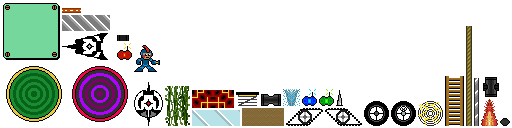
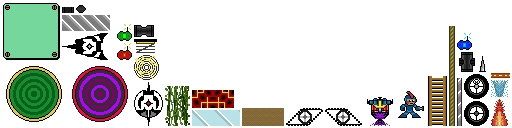
updated boss class to load from json and render

diff --git a/core/src/com/udacity/gamedev/gigagal/entities/Boss.java b/core/src/com/udacity/gamedev/gigagal/entities/Boss.java
@@ -2,7 +2,6 @@ package com.udacity.gamedev.gigagal.entities;
 
 import com.badlogic.gdx.graphics.g2d.SpriteBatch;
 import com.badlogic.gdx.graphics.g2d.TextureRegion;
-import com.badlogic.gdx.math.MathUtils;
 import com.badlogic.gdx.math.Rectangle;
 import com.badlogic.gdx.math.Vector2;
 import com.badlogic.gdx.math.Vector3;
@@ -20,7 +19,7 @@ import java.util.List;
 import java.util.ListIterator;
 import java.util.Random;
 
-public class Boss implements Humanoid {
+public class Boss implements Humanoid, Hazard  {
     
     private Level level;
     private Vector2 position;
@@ -86,7 +85,7 @@ public class Boss implements Humanoid {
     
     private GigaGal gigaGal;
 
-    public Boss(Level level, Vector2 spawnPosition, Enums.WeaponType type) {
+    public Boss(Level level, Vector2 spawnPosition) {
         this.level = level;
         this.spawnPosition = spawnPosition;
         position = new Vector2(spawnPosition);
@@ -94,10 +93,63 @@ public class Boss implements Humanoid {
         previousFramePosition = new Vector2();
         chaseCamPosition = new Vector3();
         weaponList = new ArrayList<Enums.WeaponType>();
+        init();
+    }
+
+    public void init() {
+        ammo = Constants.INITIAL_AMMO;
+        health = Constants.INITIAL_HEALTH;
+        lives = Constants.INITIAL_LIVES;
+        weaponList.add(Enums.WeaponType.NATIVE);
+        weaponToggler = weaponList.listIterator();
+        weapon = weaponToggler.next();
+        respawn();
+    }
+
+    public void respawn() {
+        height = Constants.GIGAGAL_HEIGHT;
+        eyeHeight = Constants.GIGAGAL_EYE_HEIGHT;
+        stanceWidth = Constants.GIGAGAL_STANCE_WIDTH;
+        headRadius = Constants.GIGAGAL_HEAD_RADIUS;
+        position.set(spawnPosition);
+        chaseCamPosition.set(position, 0);
+        velocity.setZero();
+        directionX = Enums.Direction.RIGHT;
+        action = Enums.Action.FALLING;
+        groundState = Enums.GroundState.AIRBORNE;
+        touchedGround = null;
+        paused = false;
+        canClimb = false;
+        canLook = false;
+        canStride = false;
+        canJump = false;
+        canDash = false;
+        canHover = false;
+        canCling = false;
+        canShoot = true;
+        turboDuration = 0;
+        ammoIntensity = Enums.AmmoIntensity.SHOT;
+        onRideable = false;
+        onSkateable = false;
+        onUnbearable = false;
+        onClimbable = false;
+        onSinkable = false;
+        onBounceable = false;
+        chargeStartTime = 0;
+        strideStartTime = 0;
+        climbStartTime = 0;
+        jumpStartTime = 0;
+        dashStartTime = 0;
+        pauseTimeSeconds = 0;
+        turboDuration = 0;
+        killPlane = -10000;
+        recoveryStartTime = TimeUtils.nanoTime();
+        health = Constants.MAX_HEALTH;
+        turbo = Constants.MAX_TURBO;
+        startTurbo = turbo;
     }
 
     public void update(float delta) {
-        
         gigaGal = level.getGigaGal();
         
         // positioning
@@ -112,7 +164,7 @@ public class Boss implements Humanoid {
         // abilities
         if (groundState == Enums.GroundState.PLANTED) {
             velocity.y = 0;
-            if (action == Enums.Action.STANDING) {
+            /*if (action == Enums.Action.STANDING) {
                 stand();
                 enableStride();
                 enableDash();
@@ -131,10 +183,10 @@ public class Boss implements Humanoid {
                 enableDash();
                 enableJump();
                 enableShoot(weapon);
-            }
+            }*/
         } else if (groundState == Enums.GroundState.AIRBORNE) {
             velocity.y -= Constants.GRAVITY;
-            if (action == Enums.Action.FALLING) {
+            /*if (action == Enums.Action.FALLING) {
                 fall();
                 enableClimb();
                 enableHover();
@@ -156,8 +208,10 @@ public class Boss implements Humanoid {
             } else if (action == Enums.Action.RECOILING) {
                 enableCling();
                 enableShoot(weapon);
-            }
+            }*/
         }
+
+        rush();
     }
     
     private void rush() {
@@ -760,7 +814,7 @@ public class Boss implements Humanoid {
         float offset = 0;
         if (lookStartTime == 0) {
             lookStartTime = TimeUtils.nanoTime();
-            chaseCamPosition.set(position, 0);
+//            chaseCamPosition.set(position, 0);
         } else if (action == Enums.Action.STANDING || action == Enums.Action.CLIMBING) {
 //            setChaseCamPosition(offset);
         }
@@ -1082,7 +1136,7 @@ public class Boss implements Humanoid {
     public final float getHeight() { return height; }
     public final float getLeft() { return position.x - getHalfWidth(); }
     public final float getRight() { return position.x + getHalfWidth(); }
-    public final float getTop() { return eyeHeight + headRadius; }
+    public final float getTop() { return position.y + headRadius; }
     public final float getBottom() { return position.y - eyeHeight; }
     public final float getTurbo() { return turbo; }
     public final int getHealth() { return health; }
@@ -1091,8 +1145,12 @@ public class Boss implements Humanoid {
     public final boolean getClingStatus() { return canCling; }
     public final boolean getDashStatus() { return canDash; }
     public final boolean getClimbStatus() { return canClimb; }
+    public final Enums.GroundState getGroundState() { return groundState; }
     public final Enums.AmmoIntensity getAmmoIntensity() { return ammoIntensity; }
     public final Enums.WeaponType getWeapon() { return weapon; }
+    public final int getDamage() { return Constants.AMMO_STANDARD_DAMAGE; }
+    public final Vector2 getKnockback() { return Constants.ZOOMBA_KNOCKBACK; }
+    public final Enums.WeaponType getType() { return weapon; }
 
     public void setDirectionX(Enums.Direction direction) { this.directionX = direction; }
     public void setDirectionY(Enums.Direction direction) { this.directionY = direction; }

diff --git a/core/src/com/udacity/gamedev/gigagal/app/Level.java b/core/src/com/udacity/gamedev/gigagal/app/Level.java
@@ -10,6 +10,7 @@ import com.badlogic.gdx.utils.viewport.ExtendViewport;
 import com.badlogic.gdx.utils.viewport.Viewport;
 import com.udacity.gamedev.gigagal.entities.Ammo;
 import com.udacity.gamedev.gigagal.entities.AmmoPowerup;
+import com.udacity.gamedev.gigagal.entities.Boss;
 import com.udacity.gamedev.gigagal.entities.Box;
 import com.udacity.gamedev.gigagal.entities.Cannon;
 import com.udacity.gamedev.gigagal.entities.DestructibleHazard;
@@ -57,10 +58,13 @@ public class Level {
     private Enums.WeaponType levelWeapon;
     private int difficulty;
 
+    private Boss boss;
+
     // default ctor
     public Level() {
         viewport = new ExtendViewport(Constants.WORLD_SIZE, Constants.WORLD_SIZE);
         gigaGal = new GigaGal(this, new Vector2(50, 50));
+        boss = new Boss(this, new Vector2(300, 300));
         levelScore = 0;
         levelTime = new Timer();
         levelTime.start();
@@ -97,6 +101,7 @@ public class Level {
         if (!gameOver && !victory) {
 
             gigaGal.update(delta);
+            boss.update(delta);
 
             levelWeapon = Enums.WeaponType.NATIVE;
             for (Enums.WeaponType weapon : Arrays.asList(Enums.WeaponType.values())) {
@@ -216,6 +221,7 @@ public class Level {
             destructible.render(batch);
         }
         gigaGal.render(batch);
+        boss.render(batch);
 
         for (Ammo chargeAmmo : ammoList) {
             chargeAmmo.render(batch);
@@ -271,7 +277,7 @@ public class Level {
     public final Array<Box> getBoxes() { return boxes; }
     public final Array<IndestructibleHazard> getIndestructibles() { return indestructibles; }
     public final DelayedRemovalArray<DestructibleHazard> getDestructibles() { return destructibles; }
-    public final Array<Hazard> getHazards() { hazards = new Array<Hazard>(destructibles); hazards.addAll(indestructibles); hazards.addAll(ammoList); return hazards; }
+    public final Array<Hazard> getHazards() { hazards = new Array<Hazard>(destructibles); hazards.addAll(indestructibles); hazards.addAll(ammoList); hazards.add(boss); return hazards; }
     public final Array<Ground> getGrounds() { return grounds; }
     public final DelayedRemovalArray<Powerup> getPowerups() { return powerups; }
     public final Viewport getViewport() { return viewport; }
@@ -290,6 +296,7 @@ public class Level {
     public final void setDifficulty(int difficulty) { this.difficulty = difficulty; }
     public final void setPortal(Portal portal) { this.portal = portal; }
     public final void setGigaGal(GigaGal gigaGal) { this.gigaGal = gigaGal; }
+    public final void setBoss(Boss boss) { this.boss = boss; }
     public final void setLevelName(Enums.LevelName levelName) { this.levelName = levelName; }
     public final void setLoadEx(boolean state) { loadEx = state; }
 }

diff --git a/core/src/com/udacity/gamedev/gigagal/util/LevelLoader.java b/core/src/com/udacity/gamedev/gigagal/util/LevelLoader.java
@@ -6,6 +6,7 @@ import com.badlogic.gdx.math.Vector2;
 import com.badlogic.gdx.utils.Array;
 import com.udacity.gamedev.gigagal.app.Level;
 import com.udacity.gamedev.gigagal.entities.AmmoPowerup;
+import com.udacity.gamedev.gigagal.entities.Boss;
 import com.udacity.gamedev.gigagal.entities.Cannon;
 import com.udacity.gamedev.gigagal.entities.Coals;
 import com.udacity.gamedev.gigagal.entities.Ice;
@@ -225,6 +226,10 @@ public final class LevelLoader {
                 final Vector2 gigaGalPosition = imagePosition.add(Constants.GIGAGAL_EYE_POSITION);
                 Gdx.app.log(TAG, "Loaded GigaGal at " + gigaGalPosition);
                 level.setGigaGal(new GigaGal(level, gigaGalPosition));
+            } else if (item.get(Constants.LEVEL_IMAGENAME_KEY).equals(Constants.BOSS_SPRITE)) {
+                final Vector2 gigaGalPosition = imagePosition.add(Constants.GIGAGAL_EYE_POSITION);
+                Gdx.app.log(TAG, "Loaded GigaGal at " + gigaGalPosition);
+                level.setBoss(new Boss(level, gigaGalPosition));
             } else if (item.get(Constants.LEVEL_IMAGENAME_KEY).equals(Constants.PORTAL_SPRITE_1)) {
                 final Vector2 portalPosition = imagePosition.add(Constants.PORTAL_CENTER);
                 Gdx.app.log(TAG, "Loaded the exit portal at " + portalPosition);

diff --git a/core/src/com/udacity/gamedev/gigagal/util/Constants.java b/core/src/com/udacity/gamedev/gigagal/util/Constants.java
@@ -95,6 +95,9 @@ public final class Constants {
     public static final String CLIMB_2 = "gg-climb-2";
     public static final float CLIMB_LOOP_DURATION = 0.25f;
 
+    // Boss
+    public static final String BOSS_SPRITE = "beast";
+
     // Box
     public static final int BOX_EDGE = 8;
     public static final float MAX_LEDGE_HEIGHT = 8;

diff --git a/core/src/com/udacity/gamedev/gigagal/app/GameplayScreen.java b/core/src/com/udacity/gamedev/gigagal/app/GameplayScreen.java
@@ -305,9 +305,6 @@ public class GameplayScreen extends ScreenAdapter {
         resize(Gdx.graphics.getWidth(), Gdx.graphics.getHeight());
     }
 
-
-
-
     public void restartLevel() {
         gigaGal.respawn();
         level.getPowerups().addAll(powerups);
